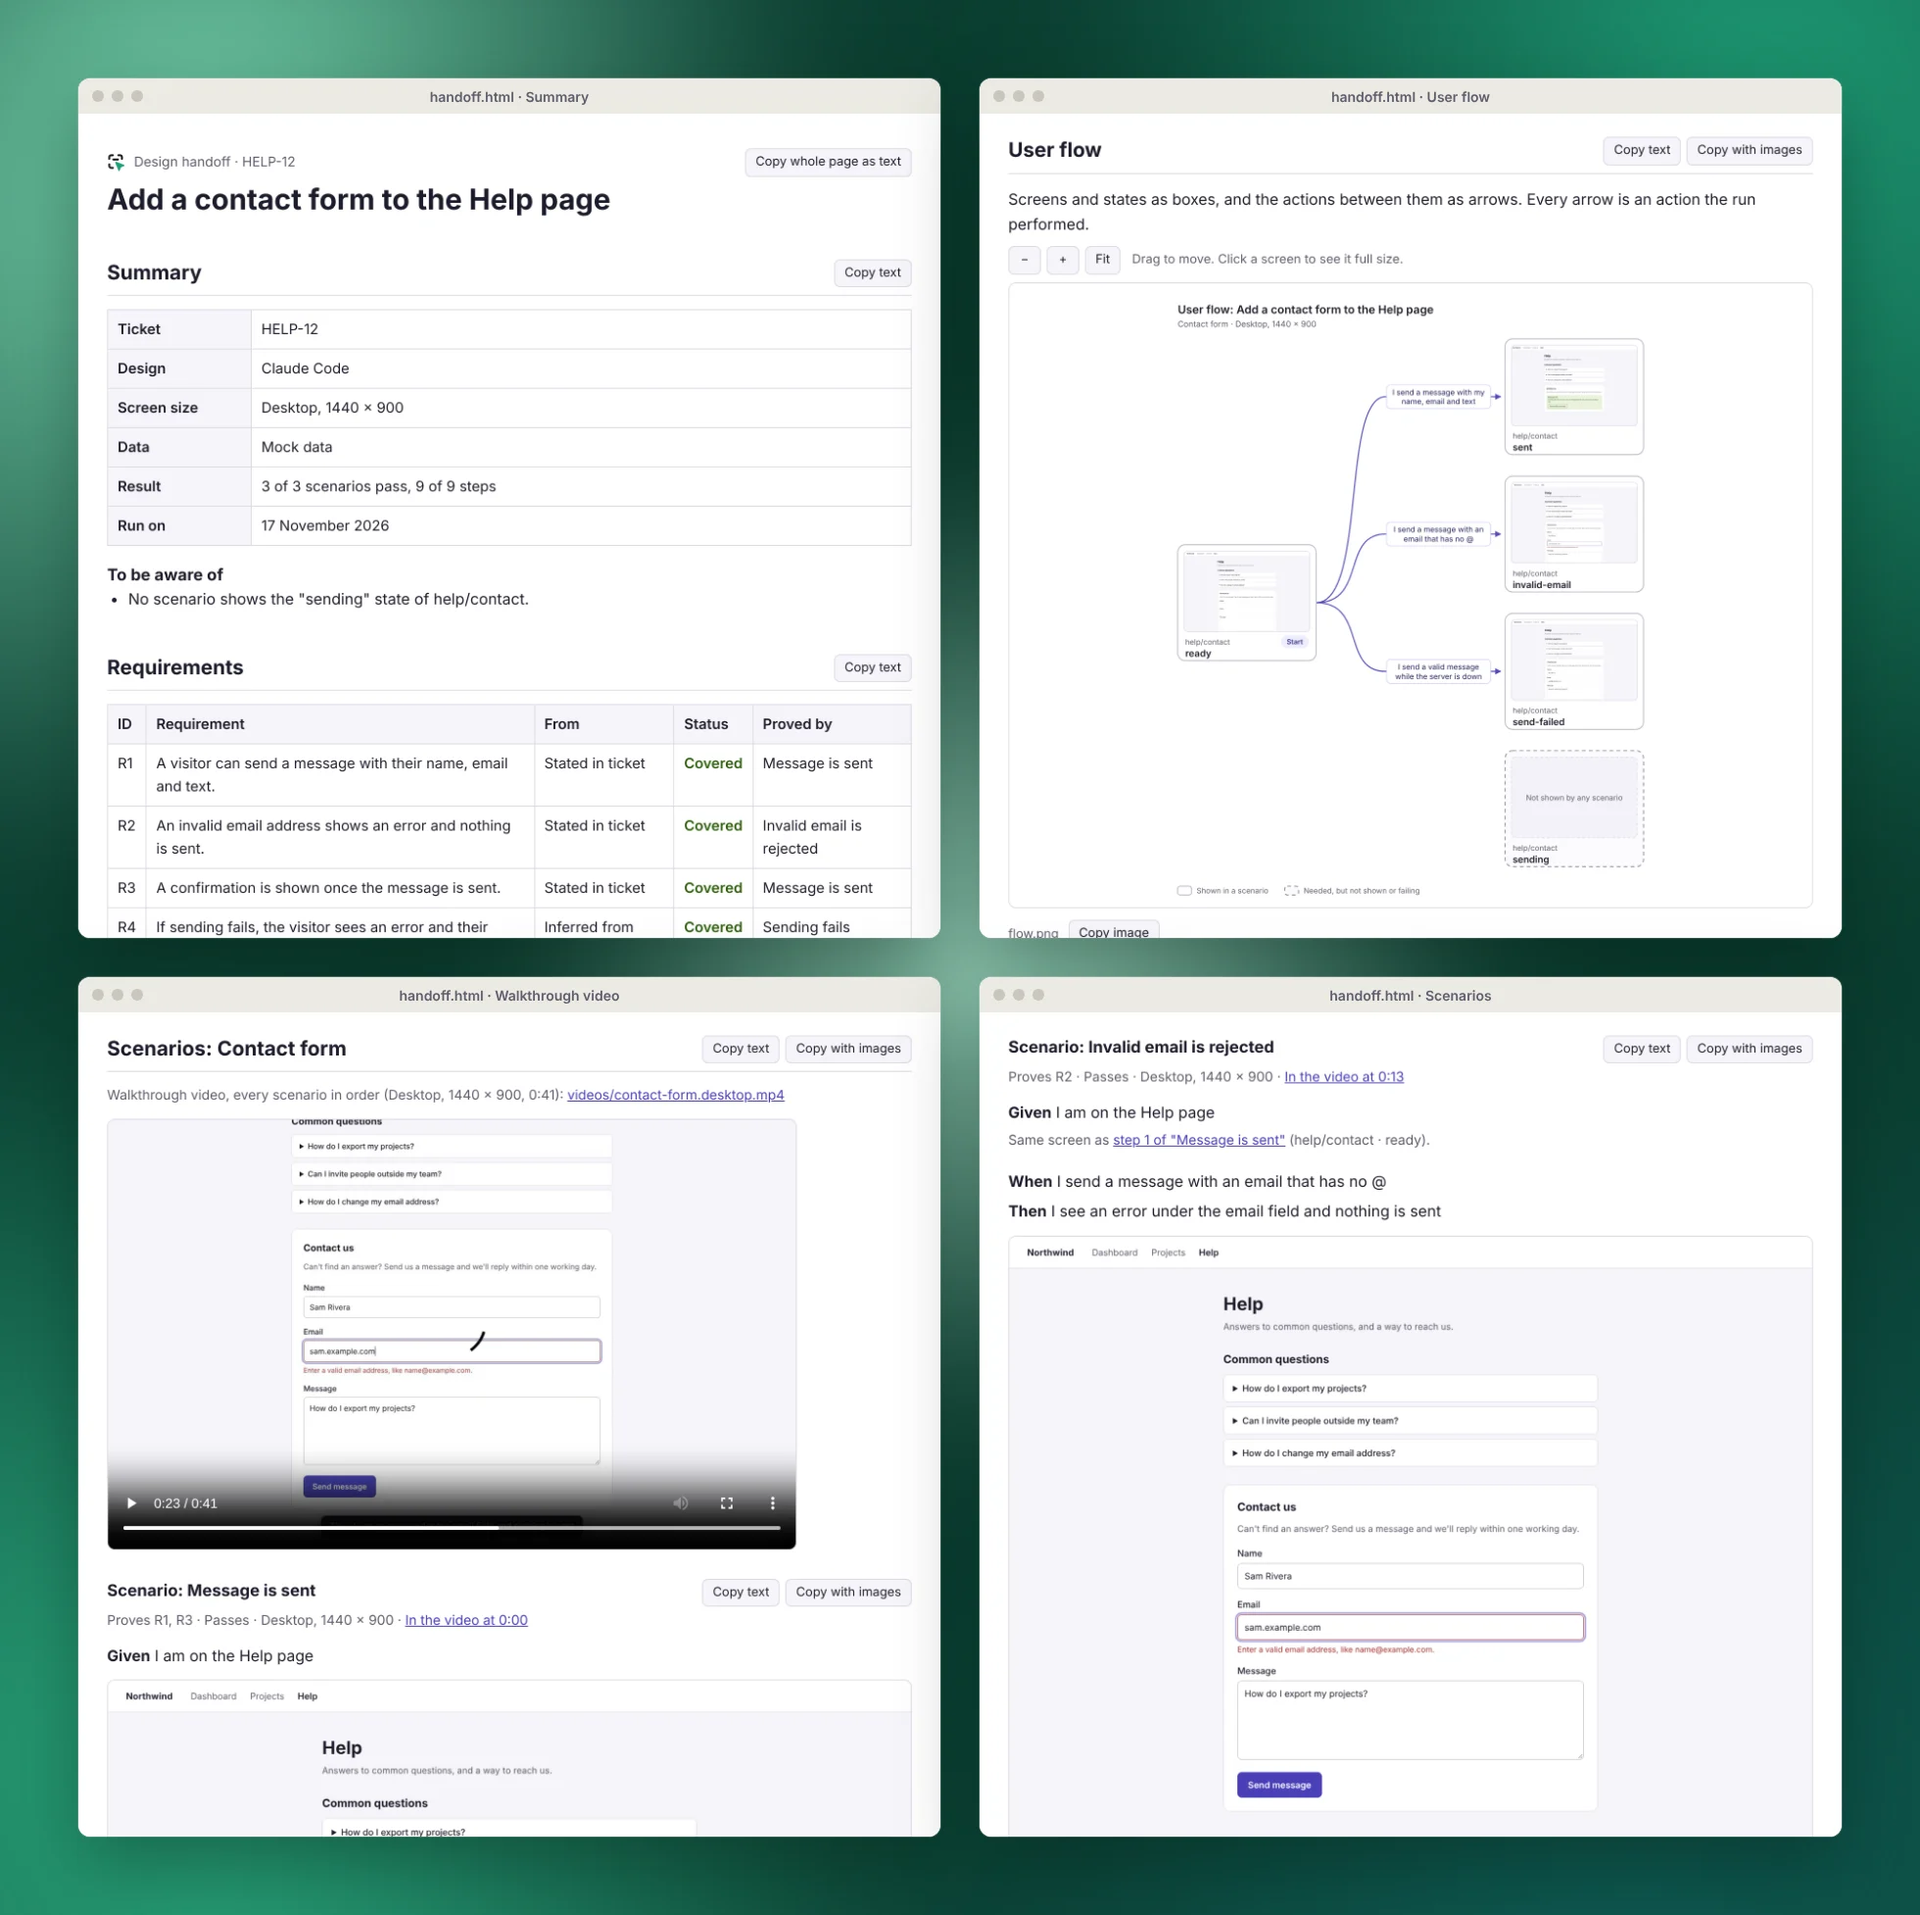
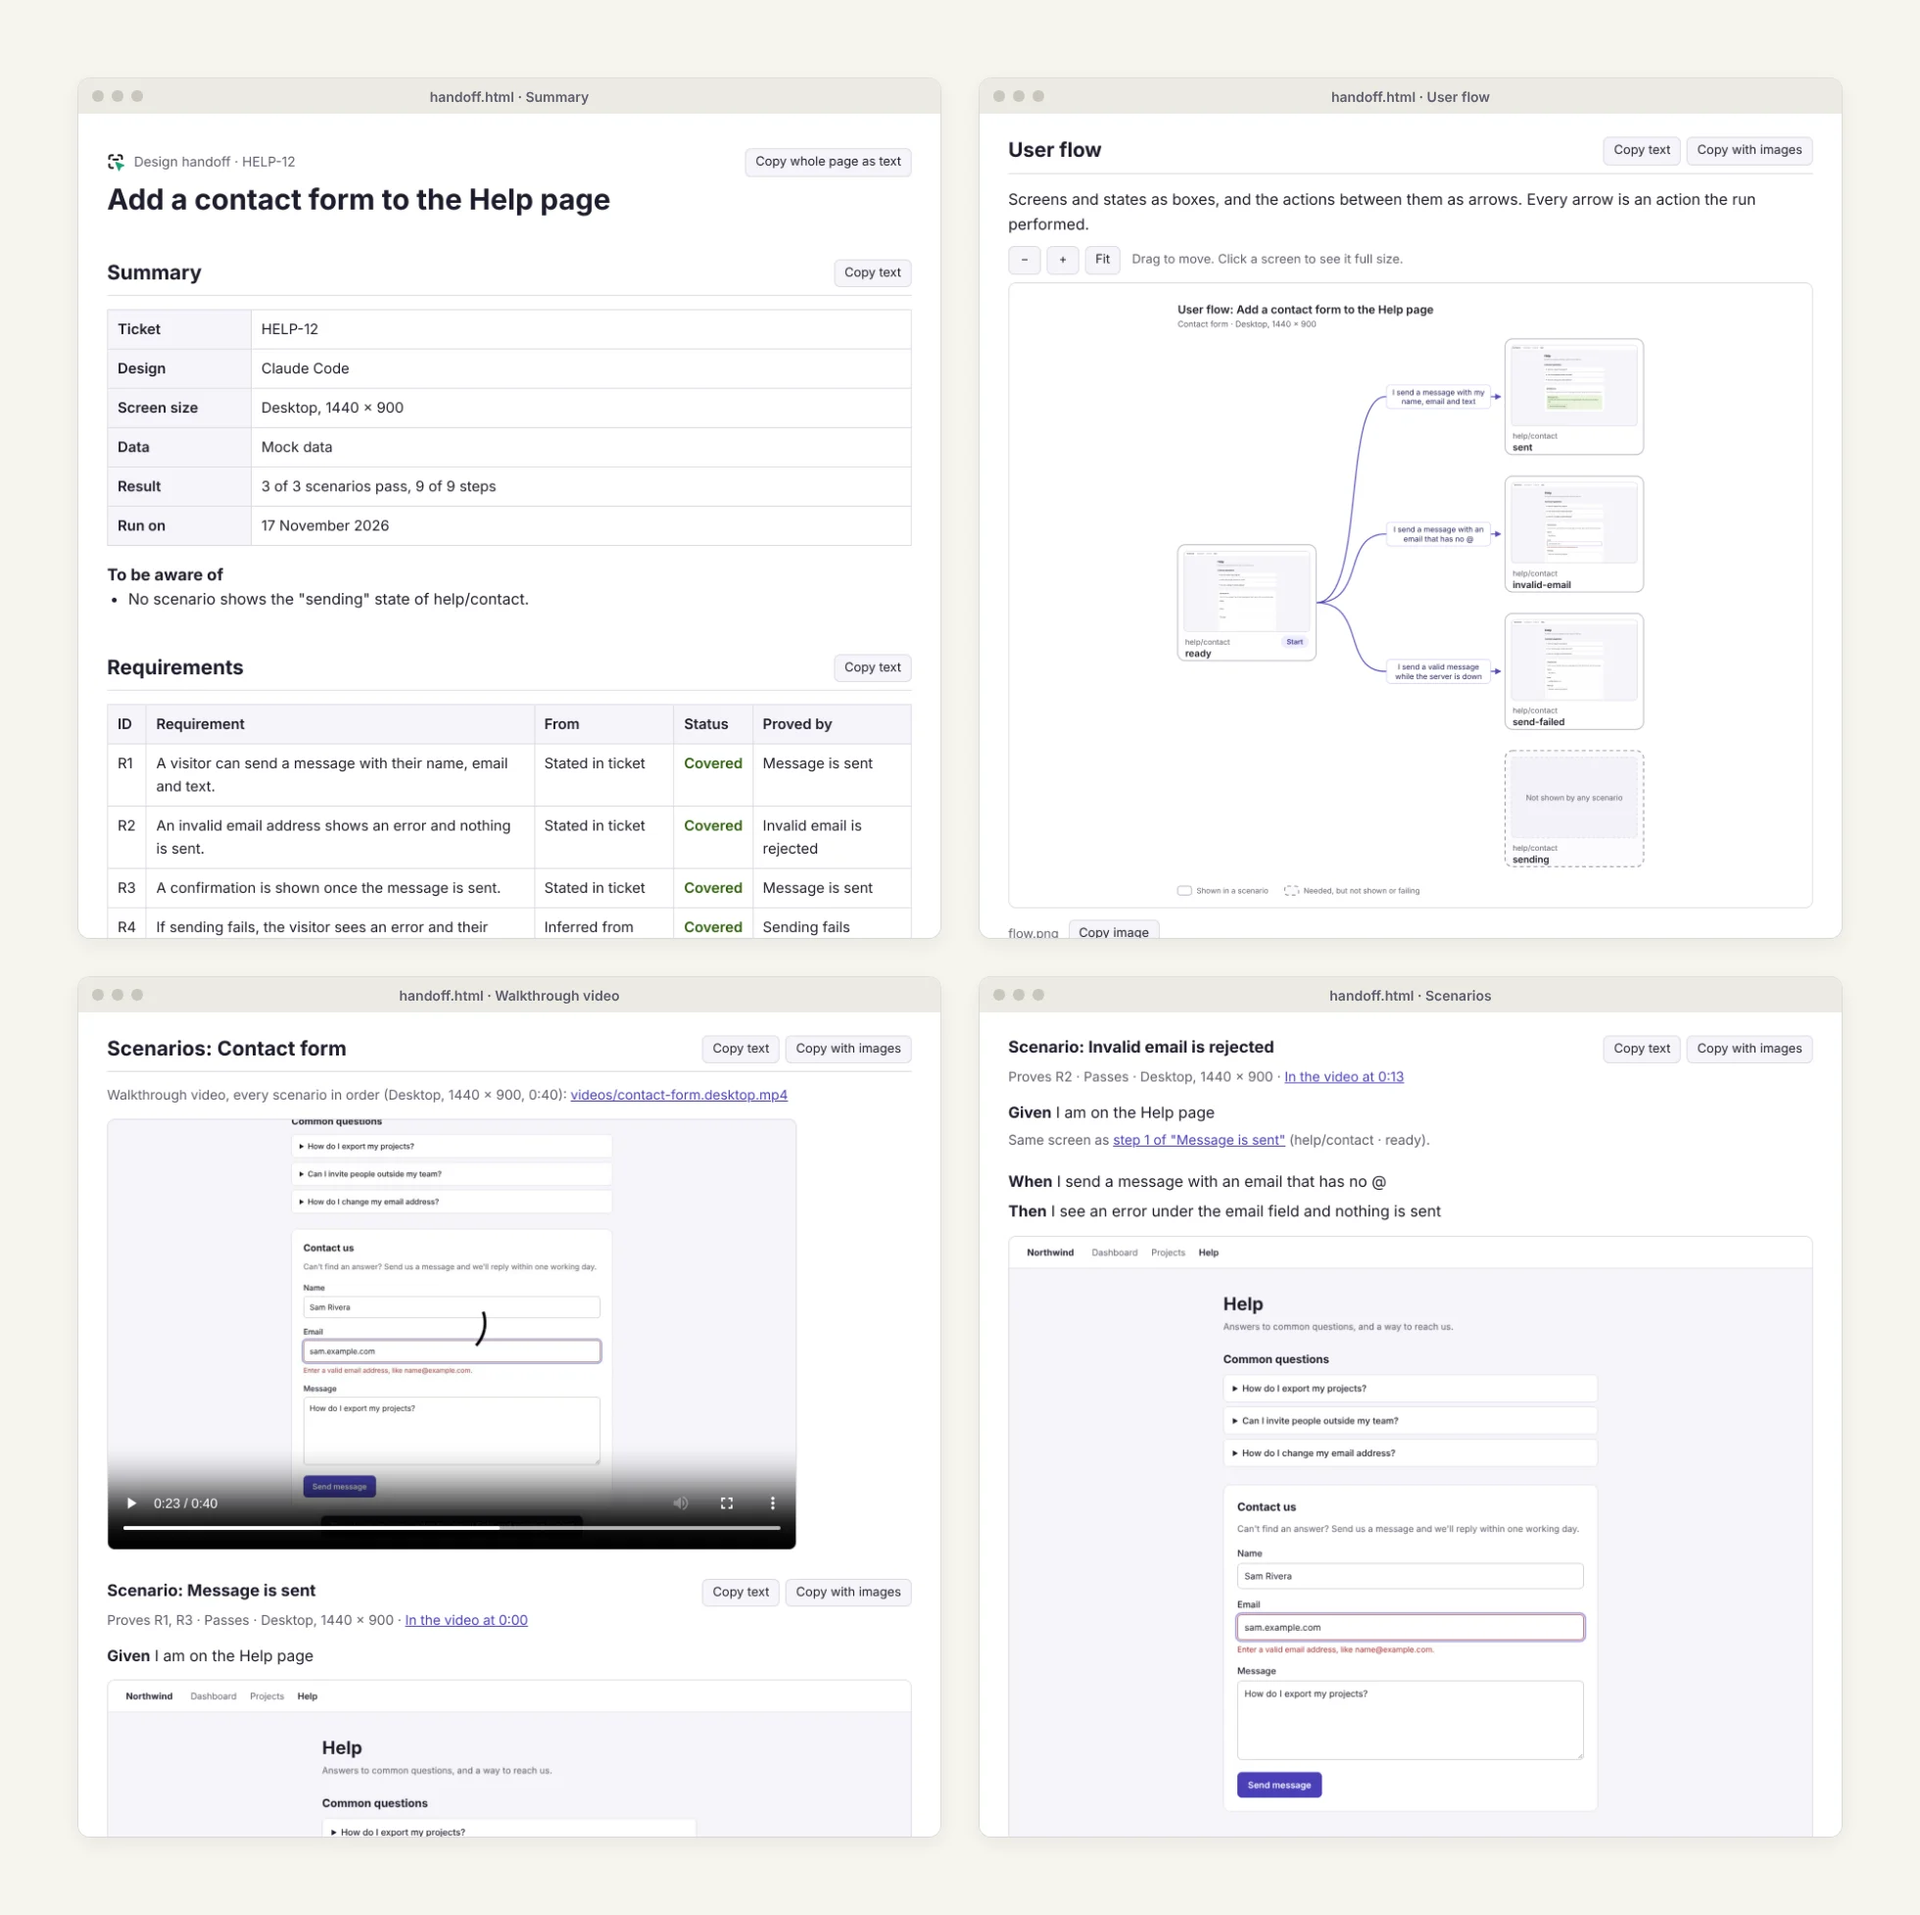
Start the README like storysync's, and put the picture on paper
- The README opens with the app icon on its own and "Specsheet" as a
  heading, as storysync's does, instead of the logo with the name drawn
  in it. It also says a screenshot "for" every step: a later step on a
  screen shown earlier links back to it.
- The picture of the handoff sits on the logo's paper colour with a
  soft shadow, instead of a green mesh.

Claude-Session: https://claude.ai/code/session_01BUYpqzhLcqEkZA9efJe7kx

Changed region(s): [[0.0, 0.0, 1.0, 1.0], [0.3112, 0.5619, 0.4046, 0.5931]]

diff --git a/README.md b/README.md
@@ -1,11 +1,13 @@
-<p><img src="assets/logo.svg" alt="Specsheet" width="240" height="60"></p>
+<img src="assets/icon.png" alt="Specsheet logo" width="88" height="88">
+
+# Specsheet
 
 [![CI](https://github.com/brendanciccone/specsheet/actions/workflows/ci.yml/badge.svg)](https://github.com/brendanciccone/specsheet/actions/workflows/ci.yml)
 
-**Turn a ticket and a design into everything engineering needs.**
+Turn a ticket and a design into everything engineering needs.
 
 Give Claude a ticket and a design that runs in a browser. You get back a user flow, a
-walkthrough video, Gherkin or a checklist with a screenshot beside every step, and the
+walkthrough video, Gherkin or a checklist with a screenshot for every step, and the
 states the design is missing. Every step is run against the design, so the spec matches it.
 
 ![Four parts of the handoff page for the example ticket HELP-12: the summary and requirements, the user flow with the missing "sending" state drawn as not shown, the walkthrough video paused on the email error, and the "Invalid email is rejected" scenario with its steps and screenshot](docs/screenshot/screenshot.webp)
